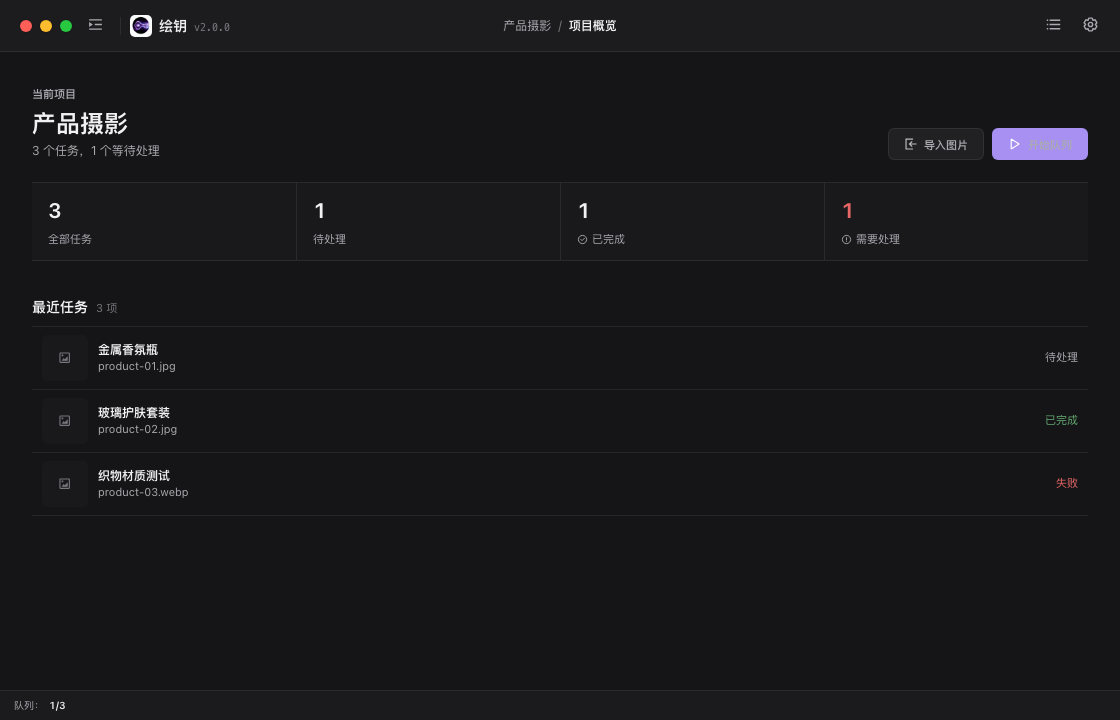
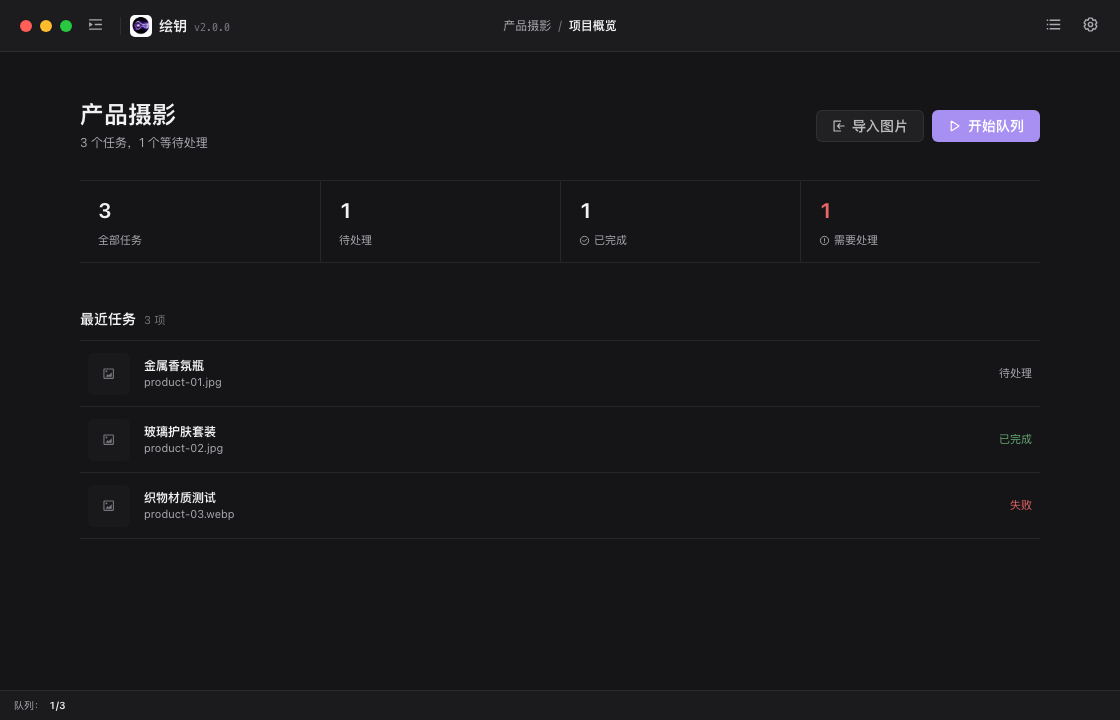
feat(ui): refine workspace hierarchy and readability

diff --git a/src/features/projects/projects.css b/src/features/projects/projects.css
@@ -1,37 +1,37 @@
-.project-sidebar { display: grid; min-width: 0; min-height: 0; grid-template-rows: auto auto auto auto auto minmax(0, 1fr) auto; gap: 8px; padding: 10px; border-right: 1px solid var(--border); background: var(--sidebar-bg); }
+.project-sidebar { display: grid; min-width: 0; min-height: 0; grid-template-rows: auto auto auto auto auto minmax(0, 1fr) auto; gap: 6px; padding: 9px; border-right: 1px solid var(--border); background: var(--sidebar-bg); }
 .project-switcher, .project-search-row, .preset-row, .queue-actions, .batch-toolbar { display: flex; align-items: center; gap: 6px; }
 .project-switcher .arco-select, .project-search-row .arco-input-group, .preset-row .arco-select { min-width: 0; flex: 1; }
 .project-switcher .arco-select-view, .project-search-row .arco-input-wrapper, .project-search-row .arco-select-view, .preset-row .arco-select-view { border-color: transparent; background: var(--surface); box-shadow: inset 0 0 0 1px var(--border); }
-.project-search-row { align-items: stretch; flex-direction: column; }
-.task-filter { width: 100% !important; }
-.preset-row { min-height: 34px; padding: 2px 0 4px; }
+.project-search-row { display: grid; grid-template-columns: minmax(0, 1fr) 80px; align-items: stretch; }
+.task-filter { width: 80px !important; }
+.preset-row { min-height: 32px; padding: 1px 0 3px; }
 .preset-row > span { flex: none; color: var(--muted); font-size: 11px; font-weight: 560; }
-.queue-summary { display: grid; gap: 7px; padding: 10px 2px 11px; border-top: 1px solid var(--border); border-bottom: 1px solid var(--border); background: transparent; }
+.queue-summary { display: grid; gap: 6px; padding: 9px 2px 10px; border-top: 1px solid var(--border); border-bottom: 1px solid var(--border); background: transparent; }
 .queue-summary > div:first-child { display: flex; align-items: baseline; justify-content: space-between; }
 .queue-summary > div:first-child strong { font-size: 15px; font-variant-numeric: tabular-nums; }
 .queue-summary > div:first-child span { color: var(--muted); font-size: 11px; }
 .queue-actions .arco-btn:first-child { min-width: 0; flex: 1; }
 .batch-toolbar { min-height: 36px; padding: 0 7px; border-radius: 6px; background: var(--brand-wash); box-shadow: inset 0 0 0 1px color-mix(in srgb, var(--brand) 18%, transparent); }
 .batch-toolbar .arco-checkbox { margin-right: auto; }
-.project-task-list { min-height: 0; margin: 0 -4px; padding: 2px 4px; overflow: auto; scrollbar-gutter: stable; }
-.project-task { display: grid; min-height: 66px; grid-template-columns: 18px 46px minmax(0, 1fr) 28px; align-items: center; gap: 8px; margin-bottom: 2px; padding: 8px 7px; border: 1px solid transparent; border-radius: 7px; outline: none; cursor: default; transition: background-color 150ms ease, border-color 150ms ease, transform 120ms ease; }
-.project-task:hover { background: color-mix(in srgb, var(--surface) 78%, transparent); }
+.project-task-list { min-height: 0; margin: 0 -3px; padding: 2px 3px; overflow: auto; scrollbar-gutter: stable; }
+.project-task { display: grid; min-height: 68px; grid-template-columns: 16px 42px minmax(0, 1fr) 26px; align-items: center; gap: 8px; margin-bottom: 2px; padding: 7px 6px; border: 1px solid transparent; border-radius: 7px; outline: none; cursor: default; transition: background-color 150ms ease, border-color 150ms ease, transform 120ms ease; }
+.project-task:hover { background: var(--surface); }
 .project-task:active { transform: translateY(1px); }
 .project-task:focus-visible { box-shadow: 0 0 0 3px var(--focus-ring); }
 .project-task.active { border-color: color-mix(in srgb, var(--brand) 20%, var(--border)); background: var(--brand-wash); box-shadow: inset 2px 0 var(--brand); }
 .project-task > .arco-checkbox { opacity: 0; transition: opacity 150ms ease; }
 .project-task:hover > .arco-checkbox, .project-task:focus-within > .arco-checkbox, .project-task.selected > .arco-checkbox { opacity: 1; }
-.task-thumbnail { display: grid; width: 46px; height: 46px; place-items: center; overflow: hidden; border-radius: 5px; background: var(--canvas); color: var(--faint); }
+.task-thumbnail { display: grid; width: 42px; height: 42px; place-items: center; overflow: hidden; border-radius: 5px; background: var(--canvas); color: var(--faint); }
 .task-thumbnail img { width: 100%; height: 100%; object-fit: cover; }
 .task-copy { min-width: 0; }
 .task-copy > strong, .task-copy > span { display: block; overflow: hidden; text-overflow: ellipsis; white-space: nowrap; }
 .task-copy > strong { font-size: 12px; font-weight: 650; }
-.task-copy > span { margin-top: 3px; color: var(--muted); font-size: 11px; }
+.task-copy > span { margin-top: 2px; color: var(--muted); font-size: 10px; }
 .project-task[data-status="completed"] .task-copy > span { color: var(--success); }
 .project-task[data-status="failed"] .task-copy > span, .project-task[data-status="blocked"] .task-copy > span { color: var(--danger); }
-.task-copy > div { display: flex; min-height: 17px; align-items: center; gap: 4px; margin-top: 3px; overflow: hidden; }
-.task-copy small { color: var(--success); font-size: 10px; white-space: nowrap; }
-.task-copy .arco-tag { height: 17px; line-height: 15px; }
+.task-copy > div { display: flex; min-height: 15px; align-items: center; gap: 6px; margin-top: 2px; overflow: hidden; }
+.task-copy small { color: var(--muted); font-size: 10px; white-space: nowrap; }
+.task-copy .arco-tag { height: 15px; padding: 0; color: var(--faint); border: 0; background: transparent; line-height: 15px; }
 .task-more { opacity: 0; }
 .project-task:hover .task-more, .project-task:focus-within .task-more, .project-task.active .task-more { opacity: 1; }
 .project-import { padding-top: 7px; border-top: 1px solid var(--border); }
@@ -45,27 +45,26 @@
 .preset-editor-field .arco-radio-group { display: grid; grid-auto-flow: column; grid-auto-columns: minmax(0, 1fr); }
 
 .project-overview { position: relative; min-width: 0; min-height: 0; overflow: auto; background: var(--bg); }
-.overview-content { width: min(1080px, calc(100% - 64px)); margin: 0 auto; padding: 32px 0 44px; }
-.overview-header { display: flex; align-items: flex-end; justify-content: space-between; gap: 24px; margin-bottom: 22px; }
+.overview-content { width: min(960px, calc(100% - 72px)); margin: 0 auto; padding: 48px 0 56px; }
+.overview-header { display: flex; align-items: center; justify-content: space-between; gap: 24px; margin-bottom: 28px; }
 .overview-header > div:first-child { min-width: 0; }
 .overview-header > div:last-child { display: flex; flex: none; gap: 8px; }
-.overview-header span { color: var(--muted); font-size: 11px; font-weight: 580; }
-.overview-header h1 { margin: 5px 0 4px; overflow: hidden; font-size: 24px; font-weight: 700; line-height: 1.22; text-overflow: ellipsis; white-space: nowrap; }
+.overview-header h1 { margin: 0 0 5px; overflow: hidden; font-size: 24px; font-weight: 700; line-height: 1.22; text-overflow: ellipsis; white-space: nowrap; }
 .overview-header p { margin: 0; color: var(--muted); font-size: 12px; }
-.overview-metrics { display: grid; grid-template-columns: repeat(4, 1fr); margin-bottom: 26px; border-top: 1px solid var(--border); border-bottom: 1px solid var(--border); background: color-mix(in srgb, var(--surface) 44%, transparent); }
-.overview-metrics > div { min-height: 66px; padding: 12px 16px; }
+.overview-metrics { display: grid; grid-template-columns: repeat(4, 1fr); margin-bottom: 34px; border-top: 1px solid var(--border); border-bottom: 1px solid var(--border); background: transparent; }
+.overview-metrics > div { min-height: 70px; padding: 14px 18px; }
 .overview-metrics > div + div { border-left: 1px solid var(--border); }
 .overview-metrics strong, .overview-metrics span { display: block; }
 .overview-metrics strong { font-size: 21px; font-weight: 630; font-variant-numeric: tabular-nums; }
 .overview-metrics span { margin-top: 5px; color: var(--muted); font-size: 11px; }
 .overview-metrics svg { margin-right: 4px; }
 .overview-metrics .has-error strong { color: var(--danger); }
-.overview-recent > header { display: flex; min-height: 40px; align-items: center; justify-content: space-between; border-bottom: 1px solid var(--border); }
+.overview-recent > header { display: flex; min-height: 44px; align-items: center; justify-content: space-between; border-bottom: 1px solid var(--border); }
 .overview-recent > header > div { display: flex; align-items: baseline; gap: 8px; }
 .overview-recent h2 { margin: 0; font-size: 14px; }
 .overview-recent > header span { color: var(--faint); font-size: 11px; }
-.overview-recent > button { display: grid; width: 100%; min-height: 62px; grid-template-columns: 44px minmax(0, 1fr) auto; align-items: center; gap: 12px; padding: 8px 10px; border: 0; border-bottom: 1px solid var(--border); border-radius: 0; color: var(--text); background: transparent; text-align: left; cursor: default; transition: background-color 150ms ease; }
-.overview-recent > button:hover, .overview-recent > button:focus-visible { background: color-mix(in srgb, var(--surface) 70%, transparent); outline: none; }
+.overview-recent > button { display: grid; width: 100%; min-height: 66px; grid-template-columns: 44px minmax(0, 1fr) auto; align-items: center; gap: 12px; padding: 10px 8px; border: 0; border-bottom: 1px solid var(--border); border-radius: 0; color: var(--text); background: transparent; text-align: left; cursor: default; transition: background-color 150ms ease; }
+.overview-recent > button:hover, .overview-recent > button:focus-visible { background: var(--surface); outline: none; }
 .overview-recent > button > span:nth-child(2) { min-width: 0; }
 .overview-recent > button strong, .overview-recent > button small { display: block; overflow: hidden; text-overflow: ellipsis; white-space: nowrap; }
 .overview-recent > button strong { font-size: 12px; }
@@ -73,7 +72,7 @@
 .overview-recent > button em { color: var(--muted); font-size: 11px; font-style: normal; }
 .overview-recent > button em[data-status="completed"] { color: var(--success); }
 .overview-recent > button em[data-status="failed"] { color: var(--danger); }
-.overview-empty { display: grid; min-height: 260px; place-content: center; justify-items: center; gap: 16px; }
+.overview-empty { display: grid; min-height: 320px; place-content: center; justify-items: center; gap: 16px; }
 .overview-drop-overlay { position: absolute; z-index: 5; inset: 18px; display: grid; place-content: center; justify-items: center; gap: 8px; border: 2px solid var(--brand); border-radius: 8px; color: var(--text); background: color-mix(in srgb, var(--surface) 94%, transparent); box-shadow: var(--shadow); backdrop-filter: blur(18px); pointer-events: none; }
 .overview-drop-overlay svg { color: var(--brand); font-size: 30px; }
 .overview-drop-overlay strong { font-size: 14px; }

diff --git a/src/features/analysis/analysis.css b/src/features/analysis/analysis.css
@@ -1,21 +1,24 @@
 .result-workspace { display: grid; min-width: 0; min-height: 0; grid-template-rows: 36px minmax(0, 1fr); overflow: hidden; }
 .revision-bar { display: flex; min-width: 0; height: 36px; align-items: center; justify-content: space-between; gap: 8px; padding: 0 8px 0 12px; border-bottom: 1px solid var(--border); background: var(--chrome); }
 .revision-context, .revision-actions { display: flex; min-width: 0; align-items: center; gap: 6px; }
-.revision-context > span { flex: none; color: var(--faint); font-size: 10px; font-weight: 620; }
-.revision-context .arco-select { width: 150px; }
-.revision-sync { border-color: transparent !important; font-size: 10px; }
-.revision-sync-local { color: var(--warning) !important; background: var(--warning-soft) !important; }
-.revision-sync-failed { color: var(--danger) !important; background: var(--danger-soft) !important; }
-.revision-sync-synced { color: var(--success) !important; background: var(--success-soft) !important; }
+.revision-context > span { position: absolute; width: 1px; height: 1px; overflow: hidden; clip: rect(0 0 0 0); white-space: nowrap; }
+.revision-context .arco-select { width: 168px; }
+.revision-sync { padding-inline: 4px !important; border-color: transparent !important; background: transparent !important; font-size: 10px; }
+.revision-sync-local { color: var(--warning) !important; }
+.revision-sync-failed { color: var(--danger) !important; }
+.revision-sync-synced { color: var(--success) !important; }
+.revision-actions .arco-btn { width: 28px; height: 28px; padding: 0; }
+.revision-delete-menu-item { color: var(--danger) !important; }
+.revision-delete-message { margin: 0; color: var(--muted); line-height: 1.7; }
 .revision-error { position: absolute; z-index: 8; top: 42px; right: 12px; left: 12px; }
 .revision-error-content { display: flex; align-items: center; justify-content: space-between; gap: 12px; width: 100%; }
 .revision-error-content > div { display: flex; flex: 0 0 auto; gap: 4px; }
 .analysis-panel { display: grid; grid-template-rows: 42px 32px minmax(0, 1fr); container-type: inline-size; }
 .analysis-title, .analysis-header-actions { display: flex; min-width: 0; align-items: center; gap: 8px; }
-.analysis-title .arco-tag { color: var(--muted); border-color: transparent; background: var(--surface-2); }
+.analysis-title .arco-tag { padding: 0; color: var(--muted); border-color: transparent; background: transparent; }
 .analysis-header-actions .arco-btn { color: var(--muted); }
 .analysis-header-actions .arco-btn:hover { color: var(--brand); background: var(--brand-soft); }
-.analysis-subhead { position: sticky; z-index: 2; top: 0; display: flex; align-items: center; justify-content: space-between; gap: 8px; padding: 0 6px 0 9px; border-bottom: 1px solid var(--border); color: var(--muted); background: var(--surface-2); font-size: 11px; }
+.analysis-subhead { position: sticky; z-index: 2; top: 0; display: flex; align-items: center; justify-content: space-between; gap: 8px; padding: 0 6px 0 9px; border-bottom: 1px solid var(--border); color: var(--muted); background: var(--surface); font-size: 11px; }
 .analysis-subhead > div { display: flex; min-width: 0; align-items: center; gap: 8px; }
 .analysis-subhead .arco-radio-group { flex: 0 0 auto; }
 .analysis-subhead .arco-radio-button { min-height: 28px; padding: 0 9px; border-color: transparent !important; font-size: 11px; }
@@ -24,17 +27,18 @@
 .analysis-expand-all { color: var(--muted) !important; font-size: 11px !important; }
 .analysis-grid { display: flex; min-height: 0; flex-direction: column; overflow-x: hidden; overflow-y: auto; scrollbar-gutter: stable; }
 .analysis-row-group { flex: 0 0 auto; scroll-margin-top: 0; }
-.analysis-group-heading { position: sticky; z-index: 1; top: 0; display: flex; height: 25px; align-items: center; padding: 0 12px; color: var(--faint); border-bottom: 1px solid var(--border); background: var(--surface-2); font-size: 10px; font-weight: 650; }
-.analysis-item { display: grid; flex: 0 0 auto; min-width: 0; min-height: 58px; grid-template-columns: 104px minmax(0, 1fr); align-items: stretch; border-bottom: 1px solid var(--border); transition: background-color 150ms ease; }
-.analysis-item:hover, .analysis-item.is-expanded { background: var(--brand-wash); }
+.analysis-group-heading { position: sticky; z-index: 1; top: 0; display: flex; height: 27px; align-items: center; padding: 0 12px; color: var(--faint); border-bottom: 1px solid var(--border); background: var(--surface-2); font-size: 10px; font-weight: 650; }
+.analysis-item { display: grid; flex: 0 0 auto; min-width: 0; min-height: 64px; grid-template-columns: 100px minmax(0, 1fr); align-items: stretch; border-bottom: 1px solid var(--border); transition: background-color 150ms ease; }
+.analysis-item:hover { background: var(--surface-2); }
+.analysis-item.is-expanded { background: var(--brand-wash); }
 .analysis-item:last-child { border-bottom: 0; }
-.analysis-label { display: flex; min-height: 58px; align-items: flex-start; gap: 8px; padding: 14px 12px; color: var(--muted); font-size: 11px; font-weight: 650; line-height: 1.55; white-space: nowrap; }
+.analysis-label { display: flex; min-height: 64px; align-items: flex-start; gap: 7px; padding: 16px 11px; color: var(--muted); font-size: 11px; font-weight: 650; line-height: 1.55; white-space: nowrap; }
 .analysis-label svg { color: var(--faint); font-size: 14px; }
 .analysis-item.ready .analysis-label svg { color: var(--brand); }
-.analysis-value { display: grid; min-width: 0; min-height: 58px; grid-template-columns: minmax(0, 1fr) 26px; align-items: start; gap: 6px; padding: 11px 9px 11px 15px; color: var(--text); font-size: 12px; line-height: 1.72; }
+.analysis-value { display: grid; min-width: 0; min-height: 64px; grid-template-columns: minmax(0, 1fr) 26px; align-items: start; gap: 8px; padding: 13px 10px 13px 16px; color: var(--text); font-size: 13px; line-height: 1.72; }
 .analysis-main { display: grid; min-width: 0; gap: 9px; }
 .analysis-main.has-palette { grid-template-columns: auto minmax(0, 1fr); align-items: start; }
-.analysis-text { display: -webkit-box; min-width: 0; max-width: 76ch; overflow: hidden; overflow-wrap: anywhere; -webkit-box-orient: vertical; -webkit-line-clamp: 2; }
+.analysis-text { display: -webkit-box; min-width: 0; max-width: 72ch; overflow: hidden; overflow-wrap: anywhere; -webkit-box-orient: vertical; -webkit-line-clamp: 2; }
 .analysis-item.is-printing .analysis-text::after { display: inline-block; width: 1px; height: 1.08em; margin-left: 2px; vertical-align: -.14em; background: var(--brand); animation: caret-blink .8s step-end infinite; content: ""; }
 .analysis-text.is-expanded { display: block; overflow: visible; }
 .analysis-placeholder { color: var(--faint); }

diff --git a/src/features/analysis/RevisionBar.tsx b/src/features/analysis/RevisionBar.tsx
@@ -1,5 +1,5 @@
-import { Alert, Button, Drawer, Dropdown, Form, Input, Menu, Popconfirm, Select, Tabs, Tag, Tooltip } from "@arco-design/web-react";
-import { IconCheck, IconDelete, IconEdit, IconEye, IconLock, IconRefresh, IconRobot, IconSave, IconUnlock } from "@arco-design/web-react/icon";
+import { Alert, Button, Drawer, Dropdown, Form, Input, Menu, Modal, Select, Tabs, Tag, Tooltip } from "@arco-design/web-react";
+import { IconCheck, IconDelete, IconEdit, IconEye, IconLock, IconMore, IconRefresh, IconRobot, IconSave, IconUnlock } from "@arco-design/web-react/icon";
 import { useEffect, useMemo, useRef, useState } from "react";
 import { cancelReversePrompt, getCommandFailure, runAnalysisRefinement, runPromptOptimization } from "../../infrastructure/tauri";
 import type { Analysis, AnalysisFieldKey, CaptureMetadata, CommandFailure, ResultRevision, ReverseResult, ReverseStreamEvent } from "../../shared/contracts";
@@ -36,6 +36,8 @@ export function RevisionBar({ result, isFinal, imageDataUrl, hasApiKey, captureM
   const view = result ? activeResultView(result) : undefined;
   const [editorOpen, setEditorOpen] = useState(false);
   const [compareOpen, setCompareOpen] = useState(previewInteraction === "compare");
+  const [deleteConfirmOpen, setDeleteConfirmOpen] = useState(false);
+  const [revisionMenuOpen, setRevisionMenuOpen] = useState(false);
   const [promptEditorOpen, setPromptEditorOpen] = useState(false);
   const [promptTitle, setPromptTitle] = useState("");
   const [promptDraft, setPromptDraft] = useState({ zh: "", en: "", negativeZh: "", negativeEn: "" });
@@ -61,6 +63,7 @@ export function RevisionBar({ result, isFinal, imageDataUrl, hasApiKey, captureM
 
   useEffect(() => { lockedRef.current = locked; }, [locked]);
   useEffect(() => () => refinementPrinterRef.current.cancel(), []);
+  useEffect(() => { if (deleteConfirmOpen) setRevisionMenuOpen(false); }, [deleteConfirmOpen]);
 
   const options = useMemo(() => [
     { label: "原始结果", value: "base" },
@@ -245,13 +248,15 @@ export function RevisionBar({ result, isFinal, imageDataUrl, hasApiKey, captureM
   };
 
   const moreMenu = <Menu onClickMenuItem={(key) => {
+    setRevisionMenuOpen(false);
     if (key === "compare") {
       setCompareLeft(active?.sourceRevisionId ?? "base");
       setCompareRight(active?.id ?? revisions.at(-1)?.id ?? "base");
       setCompareOpen(true);
     }
     if (key === "prompt-edit") openPromptEditor();
-  }}><Menu.Item key="prompt-edit" disabled={!result || !isFinal || revisions.length >= MAX_RESULT_REVISIONS}><IconEdit />编辑提示词副本</Menu.Item><Menu.Item key="compare" disabled={!revisions.length}><IconEye />比较修订</Menu.Item></Menu>;
+    if (key === "delete" && active) setDeleteConfirmOpen(true);
+  }}><Menu.Item key="prompt-edit" disabled={!result || !isFinal || revisions.length >= MAX_RESULT_REVISIONS}><IconEdit />编辑提示词副本</Menu.Item><Menu.Item key="compare" disabled={!revisions.length}><IconEye />比较修订</Menu.Item><Menu.Item className="revision-delete-menu-item" key="delete" disabled={!active}><IconDelete />删除当前修订</Menu.Item></Menu>;
   const removalCount = active ? revisionRemovalIds(revisions, active.id).size : 0;
   const errorContent = error ? <div className="revision-error-content">
     <span>{error.message}（{error.code}）</span>
@@ -271,11 +276,7 @@ export function RevisionBar({ result, isFinal, imageDataUrl, hasApiKey, captureM
         </div>
         <div className="revision-actions">
           {active && active.syncState !== "synced" ? <Button size="mini" type="primary" icon={<IconRefresh />} loading={syncing} disabled={!hasApiKey} onClick={() => void syncPrompts()}>同步提示词</Button> : null}
-          <Dropdown trigger="click" position="br" droplist={moreMenu}><Button size="mini" type="text" aria-label="修订更多操作">•••</Button></Dropdown>
-          {active ? <Popconfirm title="删除当前修订？" content={removalCount > 1 ? `将同时删除 ${removalCount - 1} 个依赖它的后续修订，此操作无法撤销。` : "此操作无法撤销。"} okText="删除" cancelText="取消" onOk={async () => {
-            if (!result) return;
-            try { await persist(removeRevision(result, active.id)); } catch (cause) { setError(getCommandFailure(cause)); }
-          }}><Tooltip content="删除当前修订"><Button size="mini" type="text" status="danger" icon={<IconDelete />} aria-label="删除当前修订" /></Tooltip></Popconfirm> : null}
+          <Dropdown trigger="click" position="br" droplist={moreMenu} popupVisible={revisionMenuOpen} onVisibleChange={setRevisionMenuOpen}><Button size="mini" type="text" icon={<IconMore />} aria-label="修订更多操作" /></Dropdown>
         </div>
       </div>
       {error && !editorOpen ? <Alert className="revision-error" type="error" content={errorContent} closable onClose={() => setError(undefined)} /> : null}
@@ -308,6 +309,26 @@ export function RevisionBar({ result, isFinal, imageDataUrl, hasApiKey, captureM
           {!imageDataUrl ? <small className="refinement-hint">当前任务没有可用原图，只能进行人工校正。</small> : !hasApiKey ? <small className="refinement-hint">配置模型服务后可使用 AI 重测，本地草稿仍可保存。</small> : null}
         </Form>
       </Drawer>
+      <Modal
+        title="删除当前修订？"
+        visible={deleteConfirmOpen}
+        okText="删除"
+        cancelText="取消"
+        okButtonProps={{ status: "danger" }}
+        onCancel={() => setDeleteConfirmOpen(false)}
+        onOk={async () => {
+          if (!result || !active) return;
+          try {
+            await persist(removeRevision(result, active.id));
+            setDeleteConfirmOpen(false);
+          } catch (cause) {
+            setError(getCommandFailure(cause));
+            setDeleteConfirmOpen(false);
+          }
+        }}
+      >
+        <p className="revision-delete-message">{removalCount > 1 ? `将同时删除 ${removalCount - 1} 个依赖它的后续修订，此操作无法撤销。` : "此操作无法撤销。"}</p>
+      </Modal>
       <Drawer className="revision-compare-drawer" width={900} title="结果修订比较" visible={compareOpen} footer={null} unmountOnExit onCancel={() => setCompareOpen(false)}>
         <div className="compare-toolbar"><Select value={compareLeft} options={options} onChange={setCompareLeft} /><span>对比</span><Select value={compareRight} options={options} onChange={setCompareRight} /></div>
         <Tabs activeTab={compareTab} onChange={setCompareTab} type="line">

diff --git a/src/features/prompts/prompts.css b/src/features/prompts/prompts.css
@@ -7,17 +7,18 @@
 .prompt-version-select { width: 124px; }
 .prompt-format { color: var(--faint); font-size: 11px; font-variant-numeric: tabular-nums; }
 .error-actions { display: flex; flex-wrap: wrap; gap: 6px; }
-.code-editor { position: relative; display: grid; min-height: 0; grid-template-rows: auto minmax(0, 1fr) 50px; grid-template-areas: "notice" "content" "actions"; background: var(--editor-bg); }
+.code-editor { position: relative; display: grid; min-height: 0; grid-template-rows: auto minmax(0, 1fr) 52px; grid-template-areas: "notice" "content" "actions"; background: var(--editor-bg); }
 .code-editor > .arco-alert { grid-area: notice; margin: 10px 12px 0; border-radius: 6px; }
 .prompt-content { display: grid; min-width: 0; min-height: 0; grid-area: content; overflow: hidden; }
 .prompt-content > .arco-empty { place-self: center; }
-.code-editor pre { width: 100%; height: 100%; min-height: 0; margin: 0; padding-block: 22px 28px; padding-inline: max(22px, calc((100% - 72ch) / 2)); overflow: auto; color: var(--text); white-space: pre-wrap; overflow-wrap: anywhere; font: 13px/1.82 -apple-system, BlinkMacSystemFont, "PingFang SC", "Microsoft YaHei", sans-serif; }
+.code-editor pre { width: 100%; height: 100%; min-height: 0; margin: 0; padding-block: 26px 32px; padding-inline: max(24px, calc((100% - 68ch) / 2)); overflow: auto; color: var(--text); white-space: pre-wrap; overflow-wrap: anywhere; font: 13px/1.88 -apple-system, BlinkMacSystemFont, "PingFang SC", "Microsoft YaHei", sans-serif; }
 .code-editor pre.raw-response { color: var(--warning); font-family: ui-monospace, SFMono-Regular, Menlo, monospace; font-size: 11px; line-height: 1.7; }
 .stream-caret { display: inline-block; width: 2px; height: 1.15em; margin-left: 2px; vertical-align: -.18em; background: var(--brand); animation: caret-blink .8s step-end infinite; }
-.editor-actions { display: flex; min-width: 0; grid-area: actions; align-items: center; justify-content: space-between; gap: 10px; padding: 7px 10px; border-top: 1px solid var(--border); background: var(--surface); }
-.editor-copy-actions, .editor-workflow-actions { display: flex; min-width: 0; align-items: center; gap: 5px; }
+.editor-actions { display: flex; min-width: 0; grid-area: actions; align-items: center; justify-content: space-between; gap: 14px; padding: 8px 10px; border-top: 1px solid var(--border); background: var(--surface); }
+.editor-copy-actions, .editor-workflow-actions { display: flex; min-width: 0; align-items: center; gap: 6px; }
 .editor-copy-actions { flex: 0 1 auto; }
 .editor-workflow-actions { flex: 0 0 auto; }
+.editor-workflow-actions { padding-left: 10px; border-left: 1px solid var(--border); }
 .editor-actions .arco-btn { height: 34px; white-space: nowrap; }
 .editor-copy-actions .arco-btn { min-width: 104px; }
 .editor-workflow-actions .arco-btn:not(.compact-action) { min-width: 76px; }

diff --git a/src/features/analysis/ResultPanel.tsx b/src/features/analysis/ResultPanel.tsx
@@ -56,6 +56,7 @@ export function ResultPanel({ result, generationState, captureMetadata, onRefine
       : generationState === "fallback" ? "兼容解析"
         : loading ? "实时测定" : "待测定";
   const badgeStatus = generationState === "complete" ? "success" : loading ? "processing" : "default";
+  const showPanelStatus = generationState !== "complete";
   const captureCount = captureRows.filter(([key]) => Boolean(captureMetadata?.[key])).length;
 
   useEffect(() => {
@@ -112,7 +113,7 @@ export function ResultPanel({ result, generationState, captureMetadata, onRefine
     <section className={`analysis-panel panel ${loading ? "is-loading" : ""}`}>
       <header className="panel-header">
         <div className="analysis-title"><h2>摄影测定</h2><Tag size="small">AI 视觉推断</Tag></div>
-        <div className="analysis-header-actions"><Badge status={badgeStatus} text={status} />{onRefine ? <Button size="mini" icon={<IconEdit />} onClick={onRefine}>校正</Button> : null}</div>
+        <div className="analysis-header-actions">{showPanelStatus ? <Badge status={badgeStatus} text={status} /> : null}{onRefine ? <Button size="mini" icon={<IconEdit />} onClick={onRefine}>校正</Button> : null}</div>
       </header>
       <div className="analysis-subhead">
         <Radio.Group type="button" size="mini" value={activeGroup} onChange={(value) => locateGroup(value as "all" | AnalysisGroup)} aria-label="摄影测定分组定位">

diff --git a/src/features/projects/ProjectOverview.tsx b/src/features/projects/ProjectOverview.tsx
@@ -32,7 +32,7 @@ export function ProjectOverview({ project, tasks, progress, onImport, onImportFi
     >
       <div className="overview-content">
         <header className="overview-header">
-          <div><span>当前项目</span><h1>{project?.title ?? "我的项目"}</h1><p>{progress.total ? `${progress.total} 个任务，${pending} 个等待处理` : "本地图片创作工作区"}</p></div>
+          <div><h1>{project?.title ?? "我的项目"}</h1><p>{progress.total ? `${progress.total} 个任务，${pending} 个等待处理` : "本地图片创作工作区"}</p></div>
           <div><Button icon={<IconImport />} onClick={onImport}>导入图片</Button><Button type="primary" icon={<IconPlayArrow />} disabled={!progress.ready && !progress.paused} onClick={onStart}>开始队列</Button></div>
         </header>
         <div className="overview-metrics" aria-label="项目任务概况">

diff --git a/src/features/analysis/RevisionBar.test.tsx b/src/features/analysis/RevisionBar.test.tsx
@@ -42,7 +42,8 @@ describe("RevisionBar", () => {
     const onResultChange = vi.fn().mockResolvedValue(undefined);
     render(<RevisionBar result={revised} isFinal hasApiKey onResultChange={onResultChange} onCopy={vi.fn()} />);
 
-    fireEvent.click(screen.getByRole("button", { name: "删除当前修订" }));
+    fireEvent.click(screen.getByRole("button", { name: "修订更多操作" }));
+    fireEvent.click(await screen.findByText("删除当前修订"));
     expect(await screen.findByText(/同时删除 1 个依赖它的后续修订/)).toBeInTheDocument();
     fireEvent.click(screen.getByRole("button", { name: "删除" }));
     await waitFor(() => expect(onResultChange).toHaveBeenCalledTimes(1));

diff --git a/docs/product/workspace.md b/docs/product/workspace.md
@@ -5,7 +5,7 @@
 - 新安装自动创建“我的项目”；升级用户的旧历史幂等迁入“历史记录”项目。
 - 左栏项目菜单用于新建、重命名和删除项目。默认项目受保护，删除内容进入废纸篓。
 - 每个导入图片对应独立任务。任务可重命名、单项重试、收藏、添加最多 12 个标签、调整顺序、移动项目或创建关联副本。
-- 搜索覆盖标题、文件名、标签、EXIF、摄影测定和提示词；每页读取 50 条。
+- 搜索覆盖标题、文件名、标签、EXIF、摄影测定和提示词；筛选位于搜索框右侧，每页读取 50 条。
 - 项目栏的导入入口固定可见；批量移动、收藏、标签、删除和导出工具仅在选择任务后出现。窄窗口中相同内容进入项目 Drawer。
 
 ## 导入与队列
@@ -26,6 +26,7 @@
 - 系统开启“减少动态效果”时取消逐字延迟，仍保留实时内容、阶段、耗时和字符数。
 - 生成期间图片上方只显示紧凑阶段反馈，内容来自真实请求状态；结束后自动收起，完成状态由任务行和底部有效指标承接。
 - 提示词正文独立滚动，底部操作栏固定显示当前结果允许使用的复制、优化、重新生成和导出操作。
+- “复制提示词 / 复制完整结果”位于操作栏左侧，“优化 / 重新生成 / 导出”位于右侧；摄影测定完成状态不会在多个面板重复显示。
 
 ## 专业精修
 

diff --git a/docs/engineering/frontend.md b/docs/engineering/frontend.md
@@ -45,6 +45,8 @@
 
 全局 Token 使用纯中性灰表面，功能色只表达状态与操作。8/12/16/24px 间距、32–36px 控件和 42–44px 面板标题栏由语义样式统一约束。Shell 分隔器、设置分类导航和日志 Console 表面属于全局布局；项目概览、图片画布、摄影测定与提示词样式继续留在各功能目录。不得用组件内联颜色绕过明暗主题。
 
+项目栏密度、项目概览连续布局、摄影测定行高和提示词阅读宽度分别由 `features/projects/projects.css`、`features/analysis/analysis.css` 与 `features/prompts/prompts.css` 维护。结果完成状态不在多个面板重复渲染；统一修订栏只常驻版本、同步状态和“更多”入口，危险删除通过组件内 Modal 明确确认并保留级联影响说明。
+
 设置分类导航由页面内 `IntersectionObserver` 跟踪当前区段，卸载时必须断开观察器；日志工具栏保持筛选组和操作组两个稳定容器，由响应式样式决定是否换行。
 
 图片查看器由独立的 `ImageViewer` 组件负责，`viewerGeometry` 只保存无 DOM 依赖的适应比例、真实像素缩放、平移边界和导航器映射。查看器使用绝对显示比例而不是相对适应比例；高频指针、滚轮和导航器移动通过 `requestAnimationFrame` 合并，渲染只更新 `translate3d + scale`。导航缩略图复用已经加载的图片地址，不重新读取原图或调用 IPC。

diff --git a/docs/design/interaction.md b/docs/design/interaction.md
@@ -4,6 +4,7 @@
 
 - 宽屏左栏默认 272px，可在 240–336px 内调整；窄于 1240px 使用同构 Drawer。
 - 顶部依次为项目切换、搜索/筛选、入队预设和真实队列进度；任务列表每次追加 50 条。
+- 搜索与筛选在稳定宽度内并列，筛选保持完整可点击；任务标签和原图状态只作为次级扫描信息，不与标题和处理状态竞争。
 - 无选中任务时展示项目概览；选中任务后恢复视觉输入、摄影测定和提示词。
 - 批量操作仅在存在选择时出现，避免常驻按钮噪声。危险操作进入 30 天废纸篓。
 - 导入入口始终固定可见；队列控制与真实进度保持在同一稳定区域，任务行只突出缩略图、标题和当前状态。
@@ -65,6 +66,7 @@
 - 本地草稿和提示词同步是两个明确步骤。同步失败保留草稿和失败状态，错误区提供重试、关联日志和可用的诊断导出。
 - 比较抽屉默认比较来源和当前修订，支持摄影测定/提示词页签；窄屏改为上下排列。
 - 删除修订必须使用确认框。存在派生关系时必须展示被级联删除的后续修订数量。
+- 删除入口位于修订栏“更多”菜单，避免危险操作常驻抢占主流程；选择后仍使用可见确认框，不以 Toast 替代。
 - 修订达到 12 个后禁用新增入口并提示先删除旧修订，不自动淘汰。
 
 ## 历史与诊断

diff --git a/docs/design/ui-system.md b/docs/design/ui-system.md
@@ -42,6 +42,14 @@
 - 结果区顶部使用固定 36px 统一修订栏；修订选择、同步状态和校正是稳定层级，比较、提示词编辑和删除进入次级操作。
 - 校正 Drawer 宽屏为 560px，比较 Drawer 为 900px；窄屏切换为接近全宽和单列比较，正文不得横向溢出。
 
+## 信息密度与阅读宽度
+
+- 项目栏的搜索和筛选共享一行，入队预设与队列控制保持独立层级；任务行优先显示缩略图、标题和状态，标签与原图标识使用无底色的次级文本。
+- 项目概览使用最大 960px 的连续内容区，标题、状态带和最近任务形成单一阅读轴，不使用大面积卡片填充空白。
+- 摄影测定正文使用 13px 字号、约 1.72 行高和不超过 72ch 的行宽；悬停只改变中性表面，展开状态才使用品牌弱底色。
+- 提示词正文限制为约 68ch，使用更宽松的段落行距；底部复制组与后续工作流组使用弱分隔，避免五个操作被识别为同一优先级。
+- 完成状态由顶栏和底部状态栏承接，摄影测定标题栏不重复显示“测定完成”；空闲、流式、停止和兼容解析仍保留就地状态。
+
 ## 动效
 
 - 状态切换使用 120–180ms 的 `opacity`、`transform` 或颜色变化。

diff --git a/README.md b/README.md
@@ -26,6 +26,7 @@
 ## 核心能力
 
 - **项目化工作台**：按项目管理任务、预设、收藏、标签、筛选和废纸篓，任务列表按 50 条分页加载。
+- **舒适专业布局**：项目栏压缩次要标签噪声，摄影测定与提示词使用稳定阅读宽度，常用操作直达、危险操作按需确认。
 - **批量图片反推**：单次导入最多 100 张 PNG、JPEG 或 WebP，总大小不超过 1 GB；队列支持串行或两个并发。
 - **摄影测定**：从画面、光影和成像三个维度输出十项摄影分析，并展示色板和真实 EXIF 白名单信息。
 - **双语提示词**：通过真实 SSE 增量输出中文、英文及可选的 SDXL 负面提示词，界面使用自适应打印效果呈现。
